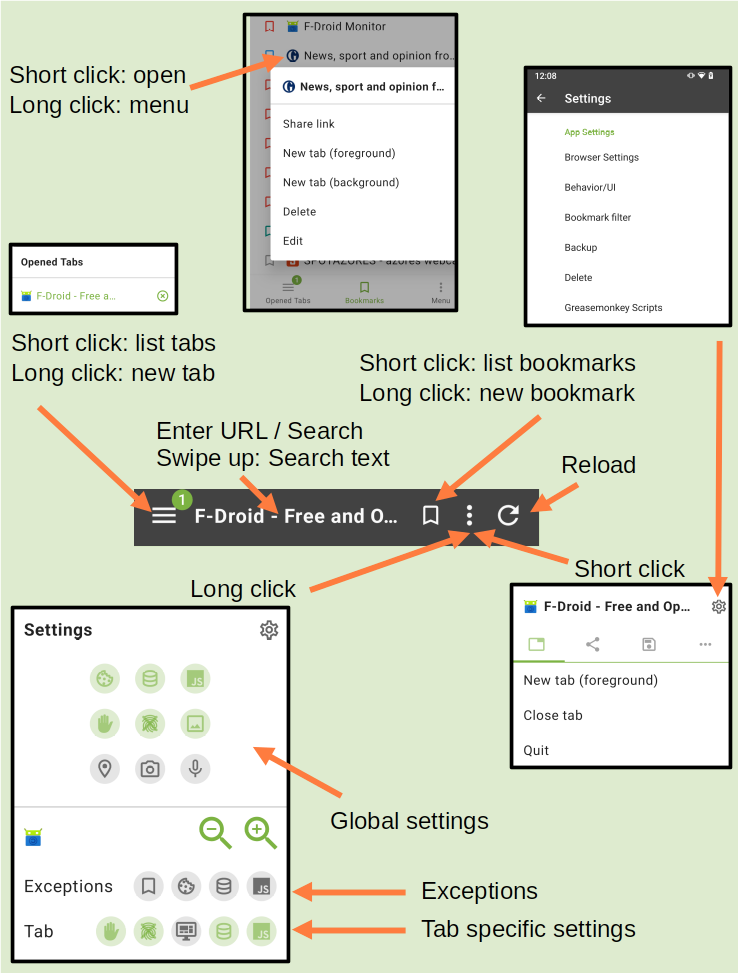
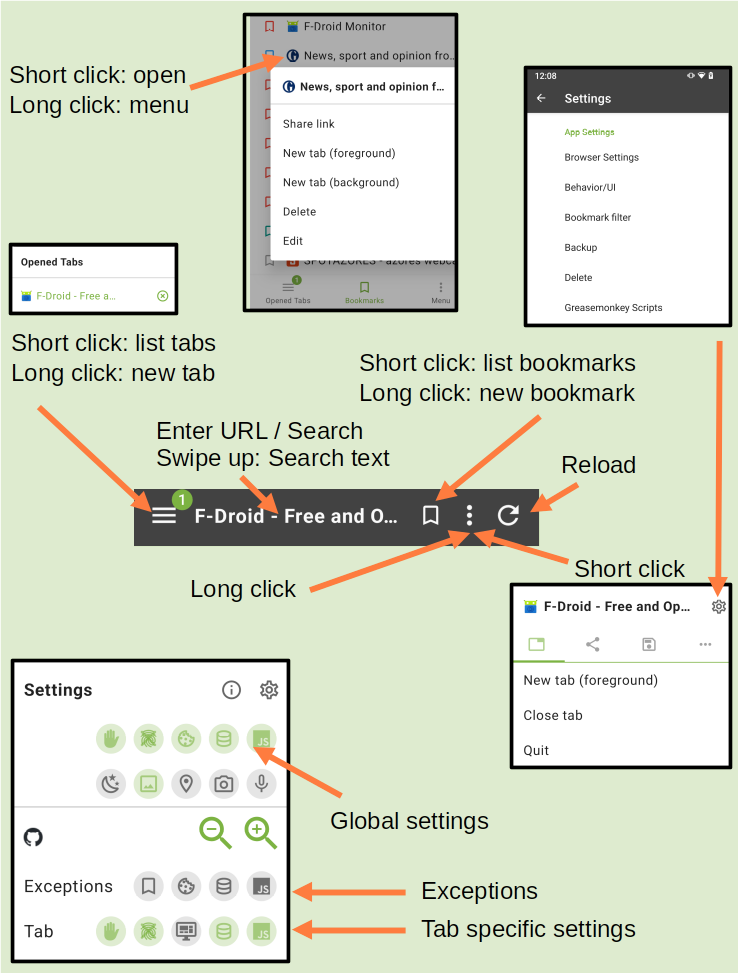
add option for algorithmic darkening update fastlane and Readme

Changed region(s): [[0.0, 0.6166, 0.4051, 0.8325], [0.0312, 0.8325, 0.0623, 0.8941]]

diff --git a/app/src/main/java/de/baumann/browser/activity/BrowserActivity.java b/app/src/main/java/de/baumann/browser/activity/BrowserActivity.java
@@ -1063,6 +1063,10 @@ public class BrowserActivity extends AppCompatActivity implements BrowserControl
         chip_image.setChecked(sp.getBoolean("sp_images", true));
         chip_image.setOnClickListener(v -> {sp.edit().putBoolean("sp_images",chip_image.isChecked()).apply();reloadPage();});
 
+        Chip chip_night = dialogView.findViewById(R.id.chip_night);
+        chip_night.setChecked(sp.getBoolean("sp_algo_dark", true));
+        chip_night.setOnClickListener(v -> {sp.edit().putBoolean("sp_algo_dark",chip_night.isChecked()).apply();reloadPage();});
+
         Chip chip_camera = dialogView.findViewById(R.id.chip_camera);
         chip_camera.setChecked(sp.getBoolean("sp_camera",false));
         chip_camera.setOnClickListener(v -> {sp.edit().putBoolean("sp_camera",chip_camera.isChecked()).apply();reloadPage();});

diff --git a/app/src/main/java/de/baumann/browser/view/NinjaWebView.java b/app/src/main/java/de/baumann/browser/view/NinjaWebView.java
@@ -155,7 +155,7 @@ public class NinjaWebView extends WebView implements AlbumController {
         WebSettings webSettings = getSettings();
 
         if(WebViewFeature.isFeatureSupported(WebViewFeature.ALGORITHMIC_DARKENING)) {
-            WebSettingsCompat.setAlgorithmicDarkeningAllowed(webSettings, true);
+            WebSettingsCompat.setAlgorithmicDarkeningAllowed(webSettings, sp.getBoolean("sp_algo_dark",true));
         }
 
         String userAgent = getUserAgent(desktopMode);

diff --git a/README.md b/README.md
@@ -61,10 +61,11 @@ For each tab it is possible to enable/disable:
 These settings (except desktop mode) are inherited from global settings when a new tab is created.
 They will always be applied when a new web site is opened.
 
-FREE Browser allows bookmark specific settings for JavaScript, DOM-Storage, and Desktop mode.
+FREE Browser allows bookmark specific settings for JavaScript, DOM-Storage, and Desktop mode. These are set from the current
+tab when storing the bookmark and can be changed when editing it.
 If a bookmark is opened these settings will be applied, no matter which other settings are valid for the tab.
 If this is the case the bookmark symbol in "Exceptions" will be highlighted. When browsing within the domain of the
-bookmark these settings will remain.
+bookmark these settings will remain. 
 
 In addition you can define domains where Cookies, DOM-Storage, and JavaScript are always allowed (see Settings -> Browser Settings).
 Cookies will override the global cookies setting. DOM-Storage and JavaScript will override the tab specific settings.
@@ -75,7 +76,8 @@ In additions there are settings which are only available as global settings:
 - Allow location access
 - Allow camera access
 - Allow microphone access
-- Download images. This allows to save data, **when not connected to WIFI**. If WIFI is available images will always be loaded.
+- Download images. This allows saving data, **when not connected to WIFI**. If WIFI is available images will always be loaded.
+- Night mode: allow algorithmic darkening of web sites. This darkening is only applied when the app is in dark mode and the web site does not provide a dark version.
 
 ### Greasemonkey style scripts
 
